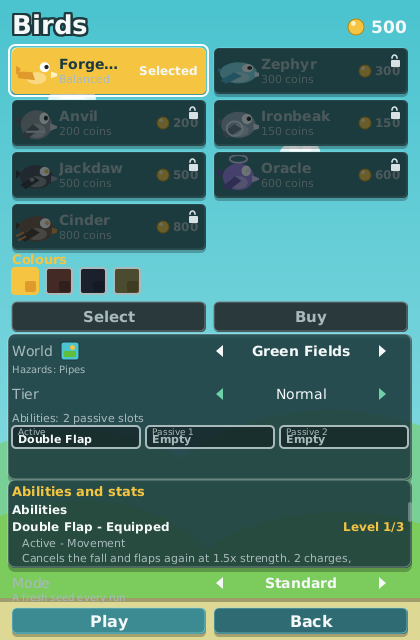
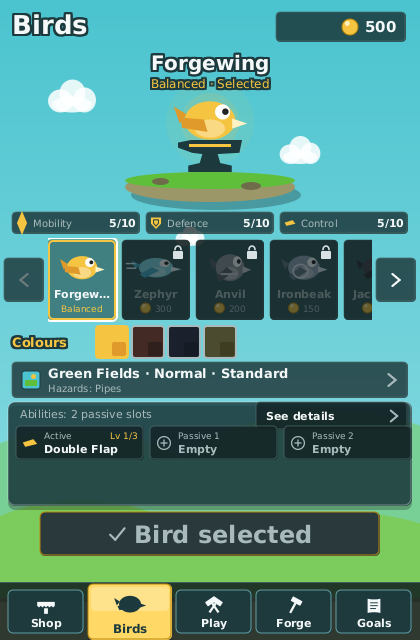
docs: describe the redesigned Birds screen
The wiki's Birds page is rewritten for the new layout in both languages,
with a fresh screenshot from the GUI smoke suite: the header, the hero and
what its three attributes mean, the carousel, the colours, the run-setup
bar and its panel, the ability cards and See details, and the call to
action over the hub's navigation. The hub, Worlds and Game Modes pages now
point at the run-setup panel instead of three loose rows, and say that the
Birds screen carries the hub's own bottom navigation.

README's mode and world prose follows, and the architecture and progression
docs gain the new components: HubHeader, SectionNav, Carousel, AbilityCard,
AttributeBadge and the six ui.screens classes the Birds screen is built
from, plus what the new tests pin.

Claude-Session: https://claude.ai/code/session_014GQtCo9wtHyDYuzDvTS9kj

diff --git a/wiki/Aves-e-Habilidades-(pt-BR).md b/wiki/Aves-e-Habilidades-(pt-BR).md
@@ -51,38 +51,59 @@ Gralha com Multiplicador de Pontos é uma combinação de economia com risco alt
 ## A tela Aves
 
 ![A tela Aves](images/birds.png)
-*A tela Aves: o elenco à esquerda, os chips do equipamento e o painel de habilidades à direita
+*A tela Aves: a ave em exibição sobre a bigorna, o elenco abaixo dela e a partida em uma linha
 (interface em inglês).*
 
-A tela se chama **Aves** e tem seis partes:
+A tela veste a roupa da tela inicial: o mesmo cabeçalho, o mesmo botão dourado e a mesma
+navegação de rodapé, com **Aves** na placa dourada. Ela tem sete partes, de cima para baixo:
 
-* **O elenco.** Sete cartões, cada um com um retrato procedural na paleta que você escolheu para
-  aquela ave e o arquétipo dela. Um cartão bloqueado traz um cadeado e diz, em palavras, o
-  caminho mais barato: quem está começando lê "Jogue 3 partidas" sob o Bico-de-ferro; quem tem
-  150 moedas na carteira lê "150 moedas". Ativar um cartão adquirido seleciona a ave e salva na
-  hora; **Comprar** paga por uma ave bloqueada e a desbloqueia ali mesmo.
-* **Cores.** Uma amostra por paleta da ave, com a condição embaixo de cada uma bloqueada. Toda ave
-  tem a paleta Padrão e uma paleta dourada **Prestígio** (concedida por um prestígio, veja
+* **O cabeçalho.** O título à esquerda e suas moedas à direita. O chip de moedas abre a
+  [[Loja e melhorias|Loja-e-Melhorias-(pt-BR)]], como na tela inicial.
+* **A ave.** A ave que você está vendo, grande, balançando sobre uma bigorna numa ilha
+  flutuante: o nome, uma linha dizendo o que ela é (`Guardiã · Selecionado`,
+  `Pesada · Bloqueado`) e três selos — **Mobilidade**, **Defesa** e **Controle**, cada um de
+  dez. Os três números descrevem a ave sozinha, lidos dos dados dela e das habilidades inatas:
+  são eles que separam o Zéfiro (7 de mobilidade) do Bico-de-ferro (10 de defesa), e não se
+  movem quando você compra uma melhoria. O que a partida realmente resolveria está no
+  detalhamento atrás de **Ver detalhes**.
+* **O elenco.** Um cartão por ave, numa faixa que você percorre com Esquerda/Direita, com as
+  setas nas pontas ou com a roda do mouse. O cartão traz o retrato na paleta que você escolheu
+  para aquela ave, o nome e o arquétipo; um cartão bloqueado fica escurecido sob um cadeado e
+  diz o caminho mais barato, em palavras ou em moedas. O cartão da ave selecionada usa a mesma
+  borda dourada do botão da tela inicial. Passar por um cartão mostra aquela ave acima; tocar um
+  cartão adquirido seleciona a ave e salva na hora, e tocar um bloqueado sacode o cadeado dele.
+* **Cores.** Uma amostra por paleta da ave, com as bloqueadas marcadas. Toda ave tem a paleta
+  Padrão e uma paleta dourada **Prestígio** (concedida por um prestígio, veja
   [[Modos de jogo e dificuldade|Modos-de-Jogo-e-Dificuldade-(pt-BR)]]); as outras estão na
   tabela abaixo. Trocar de ave corrige a paleta, porque cada paleta pertence a uma ave.
-* **As linhas Mundo, Dificuldade e Modo.** A linha Mundo lista os cinco mundos em ordem, com
-  "Perigos: …" para um mundo adquirido e "Bloqueado: …" com o caminho mais barato para um
-  bloqueado; a linha Dificuldade lista Normal, Difícil e Pesadelo com os níveis bloqueados
-  marcados; a linha Modo lista Padrão, Com semente e Diária. Passar para algo bloqueado faz a
-  linha voltar, com um aviso. Veja [[Mundos e chefes|Mundos-e-Chefes-(pt-BR)]] e
+* **A barra da partida.** Uma linha — `Campos Verdes · Normal · Padrão ›` — com as cores do
+  mundo ao lado e, embaixo, os perigos, a dica da semente ou a configuração da diária. Ativá-la
+  abre um painel com as linhas Mundo, Dificuldade e Modo e um botão **Concluir**; Esc também
+  fecha. A linha Mundo lista os cinco mundos em ordem, com "Perigos: …" para um mundo adquirido
+  e "Bloqueado: …" com o caminho mais barato para um bloqueado; a linha Dificuldade lista Normal,
+  Difícil e Pesadelo; a linha Modo lista Padrão, Com semente e Diária. Passar para algo
+  bloqueado faz a linha voltar, com um aviso. Com a **Diária** definida, as linhas Mundo e
+  Dificuldade ficam somente para leitura e dizem isso: a diária escolhe por você. Veja
+  [[Mundos e chefes|Mundos-e-Chefes-(pt-BR)]] e
   [[Modos de jogo e dificuldade|Modos-de-Jogo-e-Dificuldade-(pt-BR)]].
-* **A linha Equipamento.** Um chip por espaço: **Ativa**, **Passiva 1** a **Passiva N**, e um
-  chip fixo **Inata** para cada passiva que a ave concede por conta própria. Enter alterna o chip
-  entre as habilidades que aquele espaço aceita; um chip sem nada mostra **Vazio**.
-* **Habilidades e status.** O painel ao lado dos chips lista cada habilidade com tipo, etiquetas,
-  nível, preço do próximo nível e o que cada nível faz; as equipadas aparecem como **Equipada**,
-  e uma que as regras da partida removeriam fica acinzentada como "Removida por …".
-* **Detalhamento dos atributos.** A física resolvida da partida que começaria agora, uma linha
-  por contribuição (ave, nó de melhoria, sinergia, mundo, dificuldade). Comprar Peso Pena nas
-  árvores de melhorias acrescenta uma linha sob Gravidade aqui e baixa o valor de 1800 para 1746.
-
-**Jogar**, no rodapé, inicia a partida com tudo o que está na tela; **Voltar** retorna à tela
-inicial.
+* **Habilidades.** Um cartão por espaço — **Ativa**, **Passiva 1** a **Passiva N**, e um cartão
+  fixo **Inata** para cada passiva que a ave concede por conta própria — cada um com o ícone, o
+  nível e o nome da habilidade; um cartão sem nada mostra **Vazio**. Enter alterna o cartão
+  entre as habilidades que aquele espaço aceita. **Ver detalhes** abre o painel que lista cada
+  habilidade com tipo, etiquetas, nível, preço do próximo nível e o que cada nível faz (as
+  equipadas aparecem como **Equipada**, e uma que as regras da partida removeriam fica
+  acinzentada como "Removida por …"), seguido do detalhamento dos atributos: a física resolvida
+  da partida que começaria agora, uma linha por contribuição (ave, nó de melhoria, sinergia,
+  mundo, dificuldade). Comprar Peso Pena nas árvores de melhorias acrescenta uma linha sob
+  Gravidade ali e baixa o valor de 1800 para 1746. O painel rola com a roda, com as setas ou com
+  Page Up/Page Down.
+* **O botão e a navegação.** O botão dourado diz a única coisa a fazer com a ave acima dele:
+  **Usar \<ave\>** para uma ave adquirida, **Ave selecionada** quando ela já é a sua,
+  **Comprar · \<preço\>** quando você pode pagar, ou **Bloqueado · \<condição\>** quando não
+  pode. Abaixo dele, os cinco itens da tela inicial — Loja, Aves, Jogar, Forja, Metas — com
+  **Aves** na placa dourada: **Jogar** inicia a partida com tudo o que está na tela, e os outros
+  três trocam de seção. Não há botão Voltar: Esc ou o gesto de voltar retorna à tela inicial, e
+  fecha antes um painel aberto.
 
 | Ave | Paleta | Desbloqueada por |
 | --- | --- | --- |

diff --git a/wiki/Birds-and-Abilities.md b/wiki/Birds-and-Abilities.md
@@ -49,35 +49,55 @@ Jackdaw with Score Multiplier is a high-risk economy build.
 ## The Birds screen
 
 ![The Birds screen](images/birds.png)
-*The Birds screen: the roster on the left, the loadout chips and the ability panel on the right.*
+*The Birds screen: the browsed bird on the anvil, the roster below it, and the run in one line.*
 
-The screen is titled **Birds** and has six parts:
+The screen wears the home hub's clothes: the same header, the same gold call to action, the same
+bottom navigation with **Birds** on the gold plate. It has seven parts, top to bottom:
 
-* **The roster.** Seven cards, each with a procedural portrait in the palette you selected for
-  that bird and its archetype. A locked card carries a padlock and says the cheapest way in, in
-  words: a beginner reads "Play 3 runs" under Ironbeak, a player with 150 coins reads
-  "150 coins". Activating an owned card selects it and saves at once; **Buy** pays for a locked
-  one and unlocks it on the spot.
-* **Colours.** One swatch per palette the bird ships, with the condition under each locked one.
-  Every bird has a default palette and a golden **Prestige** palette (granted by a prestige, see
+* **The header.** The title on the left and your coins on the right. The coin chip opens the
+  [[Shop and Upgrades|Shop-and-Upgrades]], exactly as it does on the hub.
+* **The bird.** The bird you are browsing, large, bobbing on an anvil on a floating island: its
+  name, a line saying what it is (`Guardian · Selected`, `Heavy · Locked`), and three badges —
+  **Mobility**, **Defence** and **Control**, each out of ten. The three numbers describe the
+  bird alone, read from its own data and its innate abilities: they are what separates Zephyr
+  (7 mobility) from Ironbeak (10 defence), and they never move when you buy an upgrade. What the
+  run would actually resolve to is the stat breakdown behind **See details**.
+* **The roster.** One tile per bird, in a strip you walk with Left/Right, the arrows at its ends
+  or the mouse wheel. A tile carries the portrait in the palette you selected for that bird, its
+  name and its archetype; a locked tile is dimmed under a padlock and says the cheapest way in,
+  in words or in coins. The selected bird's tile carries the same gold border as the hub's call
+  to action. Walking onto a tile shows that bird above; tapping an owned tile selects it and
+  saves at once, and tapping a locked one nudges its padlock.
+* **Colours.** One swatch per palette the bird ships, with the locked ones marked. Every bird has
+  a default palette and a golden **Prestige** palette (granted by a prestige, see
   [[Game Modes and Difficulty]]); the others are listed below. Switching birds repairs the
   palette, because a palette belongs to one bird.
-* **The world row, the tier row and the mode row.** The world row lists the five worlds in order
-  with "Hazards: …" for an owned one and "Locked: …" with the cheapest way in for a locked one;
-  the tier row lists Normal, Hard and Nightmare with the locked tiers marked; the mode row lists
-  Standard, Seeded and Daily. Stepping onto something locked snaps the row back with a toast.
-  See [[Worlds and Bosses]] and [[Game Modes and Difficulty]].
-* **The loadout row.** One chip per slot: **Active**, **Passive 1** to **Passive N**, and a
-  fixed **Innate** chip for each passive the bird grants by itself. Enter cycles a chip through
-  the abilities that slot may hold; an empty chip reads **Empty**.
-* **Abilities and stats.** The panel beside the chips lists every ability with its kind, tags,
-  level, the price of the next level and what each level does; the equipped ones are marked
-  **Equipped**, and one the run's rules would remove is greyed out as "Stripped by …".
-* **Stat breakdown.** The resolved physics of the run that would start right now, one row per
+* **The run setup bar.** One line — `Green Fields · Normal · Standard ›` — with the world's
+  colours beside it and the hazards, the seed hint or the daily's setup underneath. Activating it
+  opens a panel with the world row, the tier row and the mode row and a **Done** button; Esc
+  closes it too. The world row lists the five worlds in order with "Hazards: …" for an owned one
+  and "Locked: …" with the cheapest way in for a locked one; the tier row lists Normal, Hard and
+  Nightmare; the mode row lists Standard, Seeded and Daily. Stepping onto something locked snaps
+  the row back with a toast. Under a settled **Daily** the world and tier rows are read-only and
+  say so: the daily picks them, not you. See [[Worlds and Bosses]] and
+  [[Game Modes and Difficulty]].
+* **Abilities.** One card per slot — **Active**, **Passive 1** to **Passive N**, and a fixed
+  **Innate** card for each passive the bird grants by itself — each with its icon, its level and
+  the ability's name; an empty card reads **Empty**. Enter cycles a card through the abilities
+  that slot may hold. **See details** opens the panel that lists every ability with its kind,
+  tags, level, the price of the next level and what each level does (the equipped ones marked
+  **Equipped**, one the run's rules would remove greyed out as "Stripped by …"), followed by the
+  stat breakdown: the resolved physics of the run that would start right now, one row per
   contribution (bird, upgrade node, synergy, world, tier). Buying Feather Weight in the upgrade
-  trees adds a line under Gravity here and drops it from 1800 to 1746.
-
-**Play** at the bottom starts the run with everything shown; **Back** returns to the hub.
+  trees adds a line under Gravity there and drops it from 1800 to 1746. The panel scrolls with
+  the wheel, the arrows or Page Up/Page Down.
+* **The call to action and the navigation.** The gold button says the one thing to do with the
+  bird above it: **Use \<bird\>** for an owned bird, **Bird selected** when it is already yours
+  to fly, **Buy · \<price\>** when you can afford it, or **Locked · \<condition\>** when you
+  cannot. Below it the hub's five items — Shop, Birds, Play, Forge, Goals — with **Birds** on the
+  gold plate: **Play** starts the run with everything shown, the other three change section.
+  There is no Back button: Esc or the back gesture returns to the hub, and closes an open panel
+  first.
 
 | Bird | Palette | Unlocked by |
 | --- | --- | --- |

diff --git a/docs/PROGRESSION.md b/docs/PROGRESSION.md
@@ -354,7 +354,7 @@ uses cannot drift apart.
 
 | Screen | What it shows | What it writes |
 | --- | --- | --- |
-| `BirdSelectionScreen` | the seven birds as a `CardGrid` with a procedural portrait in the selected palette, the archetype, and — for a locked one — the **cheapest** way to open it in words; the palette swatches with their conditions; the tier picker with the locked tiers marked (E19); the run-mode row (§8) — Standard, Seeded and, when the screen has a clock, Daily, each saying what it would play; the loadout row — one active chip, one chip per passive slot the bird and the `passive_slot` grant give, and a fixed chip per innate passive — with the ability panel beside it (level, next level's price, and what each level does); and the stat breakdown of the run that would start right now | `SelectionManager` (bird, palette, tier, loadout), `UnlockManager` (Buy), `UpgradeManager.buyAbilityLevel`, and the mode row's write of the daily pick (E27) |
+| `BirdSelectionScreen` | the browsed bird as the hero — name, archetype line, three `AttributeBadge`s built by `BirdAttributes.of` from the bird's own profile and innate abilities — over a `Carousel` of the seven birds, each with a procedural portrait in the selected palette, the archetype, and, for a locked one, the **cheapest** way to open it in words or coins; the palette swatches with their conditions; a run-setup bar whose panel holds the world row, the tier picker with the locked tiers marked (E19) and the run-mode row (§8) — Standard, Seeded and, when the screen has a clock, Daily, each saying what it would play, with the world and tier read-only under a settled daily; the loadout as `AbilityCard`s — one active, one per passive slot the bird and the `passive_slot` grant give, and a fixed card per innate passive — with the ability panel and the stat breakdown of the run that would start right now behind **See details**; and one gold call to action (Use / Bird selected / Buy / Locked) over the hub's five-item `SectionNav` | `SelectionManager` (bird, palette, tier, loadout), `UnlockManager` (Buy), `UpgradeManager.buyAbilityLevel`, and the mode row's write of the daily pick (E27) |
 | `UpgradeTreeScreen` | one tab per tree, nodes laid out by tier with a line from every prerequisite, each card carrying level/maximum, what one level does in words, the price of the next level and its state (tree locked / prerequisite missing / affordable / maxed / already unlocked); a locked tree shows its condition instead | `UpgradeManager.buy` |
 | `ShopScreen` | everything with a `purchase` branch the profile does not own, grouped into four tabs (birds, abilities, worlds, features), cheapest first, each with its price and whether the wallet covers it; an offer that is not playable yet says which milestone it arrives in | `UnlockManager.purchase` |
 | `WorldSelectScreen` (M10) | one card per world in content order, the palette as its art, the hazards (owned) or the **cheapest** way in (locked) as its subtitle and the price as its badge while locked; the difficulty row under the cards; a description line for the focused world. Opened from the hub's world plaque | `SelectionManager.selectWorld` on an owned card (then pops), `selectTier` from the row; a locked card is refused with a toast — worlds are bought in the shop's Worlds tab |
@@ -470,8 +470,8 @@ opens keeps its own title, "Upgrades".
   ignores the seed the game-over screen asks for — so one day is one configuration, played as
   often as the player likes.
 
-The mode row of `BirdSelectionScreen` (§6) carries the UI: Standard and Seeded are always
-listed; Daily is listed when the screen has a clock and marked with its unlock condition while
+The mode row of `BirdSelectionScreen`'s run-setup panel (§6) carries the UI: Standard and
+Seeded are always listed; Daily is listed when the screen has a clock and marked with its unlock condition while
 `feature:seeded_runs` is locked; the row's detail line names the world, tier and cards of the
 run Play would start — and *that* is the read that settles the day.
 
@@ -497,7 +497,7 @@ shield run 5, `feature:modifiers` run 7) all hold.
 | `NewPlayerJourneyTest` (`@Tag("sim")`) | the novice bot on the real economy: `feather_1` bought after run 1, Ironbeak by run 3, the shield by run 5 and `feature:modifiers` by run 7 (E17), with the run-by-run table in the failure message. It pins *which* node and *which* run, so doubling a price fails it |
 | `SaveManagerTest` | E21's load order end to end (a renamed bird survives normalisation), an owned node the content dropped, and `abilityLevelCap` clamped from above |
 | `SmokeWindowTest` (`@Tag("gui")`) | a launch grants the unlocks a saved profile has already earned, and persists them |
-| `BirdSelectionScreenTest` | the roster, the cheapest path in words, selection writing and saving, a purchase that moves the wallet and one that cannot, the breakdown against `StatSheet.breakdown`, and the M5 loadout row: the chips a bird's slots and the `passive_slot` grant give, cycling one, and that cycling never drops a passive the bird cannot show |
+| `BirdSelectionScreenTest` | the roster, the cheapest path in words, selection writing and saving, a purchase that moves the wallet and one that cannot, the breakdown against `StatSheet.breakdown`, the M5 loadout row (the cards a bird's slots and the `passive_slot` grant give, cycling one, and that cycling never drops a passive the bird cannot show), and the M11 shell: what the call to action says in each of its four states, the two panels opening and closing, the hero following the browsed tile, a locked tile nudging instead of selecting, and every control on the ring in visual order |
 | `SelectionManagerTest` | every selection refusal, including a locked ability, a passive in the active slot and a passive list that mixes locked, non-passive and duplicate ids |
 | `UpgradeTreeScreenTest` | the tabs, a locked tree's condition, the tier layout and prerequisites, a bought level moving wallet, card and live stats, every refusal, and a node whose grant is already owned |
 | `ShopScreenTest` | the four tabs, cheapest first, affordability, a purchase leaving the list, the three modifier legendaries at 300 coins each, and the milestone note on what is not playable yet |

diff --git a/docs/ARCHITECTURE.md b/docs/ARCHITECTURE.md
@@ -581,8 +581,9 @@ records the attempts and the best gate count under `RunMode.DAILY` (the reward c
 applies `economy.daily.rewardMult`, ×1.25, for the mode).
 
 **Run modes (D28).** `RunMode` is `STANDARD / SEEDED / DAILY / CHALLENGE`; `RunConfig` carries
-the mode and `RunRewardCalculator` reads it. The bird selection screen's mode row lists
-Standard and Seeded always and Daily when it has a clock, marks the two gated ones with their
+the mode and `RunRewardCalculator` reads it. The mode row in the bird selection screen's
+run-setup panel lists Standard and Seeded always and Daily when it has a clock, marks the two
+gated ones with their
 `feature:seeded_runs` condition, and falls back to a standard run when Play is pressed on a
 locked mode. Seeded replays `profile.lastSeed`; a challenge keeps its own screen and source
 (M8).
@@ -634,6 +635,22 @@ demo never arms it. The old Quit lives in Settings › About as a row shown only
 the former `ChallengesScreen` as its first tab and rebuilds its ring per tab (the list and Play
 exist only on Challenges); `StatisticsScreen` is the Profile, with a fixed header (portrait,
 level bar, prestige, collections) above the scrolled groups.
+
+**Section screens (M11).** The hub's language is factored into `ui.component`: `HubHeader` (the
+title plus a `CurrencyChip` that is focusable only when it has a route) and
+`SectionNav.build(nav, primaryId, routes)`, which fills a `NavBar` with the same five items and
+marks one as primary — Play on the hub, the section itself on a section screen, so the gold
+plate reads "you are here". `BirdSelectionScreen` is the first screen built that way: a
+`BirdHero` (name, archetype line, the bird bobbing on an anvil on an island, and three
+`AttributeBadge`s fed by `BirdAttributes.of`, which resolves a `StatSheet` from the bird's own
+`BirdProfile` and its innate abilities and scores mobility, defence and control out of ten), a
+`Carousel` of `Tile`s (`CardGrid.Card` subclasses clipped to a scrolling viewport, walked with
+Left/Right, the end arrows or the wheel), a `RunSetupBar` opening a `RunSetupPanel` over the
+world, tier and mode rows, `AbilityCard`s for the loadout with the breakdown behind a
+`DetailsPanel`, one `CtaButton` and the `SectionNav`. Reduce flashing caps the glows and leaves
+the bob, the wing beat, the hero's slide and the carousel's tween alone: they are motion, not
+luminance, exactly as on the hub. Nothing interactive leaves the 420×640 playfield, and the
+navigation routes use `ScreenManager.replace`, so the stack stays two deep.
 
 **MetaSim (E25).** `gameplay.harness.MetaSim` is the career-scale harness: a fresh profile plays
 run after run through the real progression stack under one of two purchase policies
@@ -703,10 +720,11 @@ Flapforge/
     │   │               AssetManager AssetResolver Sprite SpriteSheet Animation Camera ParticleSystem [M2]  PickupRenderer [M3]  ObstacleRendererRegistry [M7]
     │   ├── audio/      AudioBackend SoftwareMixer NullAudio Voice SoundBank ToneSynth AudioManager [M2]  MusicSequencer [M8]
     │   └── ui/         Screen ScreenManager UiNode FocusRing [M0]
-    │       ├── component/  Button Label Panel [M0]  Slider Toggle ListView Toast [M2]  ProgressBar CurrencyDisplay [M3]  Tooltip CardGrid TabBar [M4]  IconPainter IconButton NavButton NavBar CtaButton CurrencyChip [M10]
+    │       ├── component/  Button Label Panel [M0]  Slider Toggle ListView Toast [M2]  ProgressBar CurrencyDisplay [M3]  Tooltip CardGrid TabBar [M4]  IconPainter IconButton NavButton NavBar CtaButton CurrencyChip [M10]  HubHeader SectionNav Carousel AbilityCard AttributeBadge [M11]
     │       └── screens/    MainMenuScreen (minimal) SettingsScreen (stub) [M0]  GameScreen PauseOverlay GameOverOverlay SeededRunSource ClassicRunFactory ContentRunFactory SeedSequence [M1]  BootScreen [M2; MainMenu/Settings completed]
     │                       RunSummaryScreen StatisticsScreen [M3]  BirdSelectionScreen UpgradeTreeScreen ShopScreen [M4]  ModifierChoiceOverlay [M6]
     │                       RuleShiftBanner [M7]  BossBanner [M8]  GoalsScreen (Challenges+Achievements merged) WorldSelectScreen PlayerCard WorldPlaque NextUnlockCard ForgeScene BirdPortrait [M10; MainMenuScreen = home hub, StatisticsScreen = Profile]
+    │                       BirdHero BirdAttributes AbilityIcons RunSetupBar RunSetupPanel DetailsPanel [M11; BirdSelectionScreen in the hub's language]
     ├── main/resources/
     │   ├── assets/manifest.json [M2, empty asset list]  assets/sprites/{birds,obstacles,worlds,ui}/.gitkeep assets/audio/{sfx,music}/.gitkeep [M2]  assets/fonts/{<ofl-font>.ttf,LICENSE} [M8]
     │   ├── data/birds.json difficulty.json [M1]  economy.json [M3]  upgrades.json aliases.json [M4]  abilities.json [M5]  modifiers.json [M6]  worlds.json patterns.json [M7]  challenges.json achievements.json [M8]

diff --git a/README.md b/README.md
@@ -8,7 +8,7 @@
 [![Gradle](https://img.shields.io/badge/Gradle-9.7-02303A?logo=gradle&logoColor=white)](https://gradle.org/)
 ![Genre](https://img.shields.io/badge/Genre-Arcade%20Roguelite-blueviolet)
 ![Meta Progression](https://img.shields.io/badge/Progression-Persistent-success)
-![Release](https://img.shields.io/badge/Release-v0.2.0-blue)
+![Release](https://img.shields.io/badge/Release-v0.2.1-blue)
 [![License](https://img.shields.io/badge/License-MIT-green.svg)](LICENSE)
 
 **Flapforge** reimagines the classic Flappy Bird formula as a **Skill-Based Arcade Roguelite with Persistent Meta-Progression**.
@@ -588,8 +588,9 @@ and
 
 ## Game Modes
 
-The bird selection screen has a run-mode row beside the world and tier rows.
-Four modes exist; Challenges live on the first tab of the Goals screen.
+The bird selection screen has a run-mode row under the world and tier rows,
+in the panel its `World · Tier · Mode ›` bar opens. Four modes exist;
+Challenges live on the first tab of the Goals screen.
 
 ### Standard
 
@@ -692,9 +693,9 @@ honours the text scale and colour-blind settings. `Esc` on the hub asks
 "Press again to quit"; a second press closes the game (Settings › About has
 a Quit row too).
 
-The world is picked on the hub's plaque, in the bird selection screen (the
-world row lists the five worlds, what each spawns and, for a locked one, the
-cheapest way in) or for one launch with `--world <id>` — see
+The world is picked on the hub's plaque, in the bird selection screen (its
+run-setup panel lists the five worlds, what each spawns and, for a locked
+one, the cheapest way in) or for one launch with `--world <id>` — see
 [Running the Game](#running-the-game).
 
 Input is sampled per simulation tick (60 Hz), so a tap shorter than a frame
@@ -757,9 +758,9 @@ if you want to send a change.
 
 ```bash
 ./gradlew fatJar
-java -jar build/libs/flapforge-0.2.0-all.jar
-java -jar build/libs/flapforge-0.2.0-all.jar --fullscreen --no-audio
-java -jar build/libs/flapforge-0.2.0-all.jar --lang pt_BR
+java -jar build/libs/flapforge-0.2.1-all.jar
+java -jar build/libs/flapforge-0.2.1-all.jar --fullscreen --no-audio
+java -jar build/libs/flapforge-0.2.1-all.jar --lang pt_BR
 ```
 
 The jar bundles Gson and needs only a JRE/JDK 17+.
@@ -939,7 +940,8 @@ It is:
 
 ## Roadmap
 
-Version 0.1.0 shipped the complete first pass of the design, and 0.2.0 adds the home hub, the Goals screen, the Profile, the World Select and the player wiki: the classic core,
+Version 0.1.0 shipped the complete first pass of the design, 0.2.0 added the home hub, the Goals screen, the Profile, the World Select and the player wiki, and 0.2.1 rebuilds the bird
+selection in the hub's visual language: the classic core,
 the meta-progression (coins, XP, seven birds, eight abilities, three upgrade
 trees, shops), the roguelite layer (modifier drafts, synergies), five worlds
 with bosses, seven challenges, 41 achievements, difficulty tiers, the daily

diff --git a/wiki/Game-Modes-and-Difficulty.md b/wiki/Game-Modes-and-Difficulty.md
@@ -9,7 +9,8 @@ demo that plays when you leave the hub alone, is at the end.
 
 ## Where the mode is chosen
 
-The mode row sits on the Birds screen, beside the world row and the tier row
+The mode row sits in the run-setup panel of the Birds screen, under the world row and the tier
+row: the bar reads `World · Tier · Mode ›` and activating it opens the three rows
 ([[Birds and Abilities]]). Standard and Seeded are always listed; Daily is listed when the game
 has a clock, and while `feature:seeded_runs` is still locked both Seeded and Daily say so with
 their unlock condition. The line under the mode names what Play would start: "A fresh seed
@@ -69,8 +70,9 @@ The full list, with objectives and rewards, is on [[Challenges and Goals]].
 ## Difficulty tiers
 
 A tier stacks on top of every mode, except where a challenge fixes its own. It is chosen on the
-tier row of the Birds screen or on the Difficulty row of the World Select screen (the screenshot
-is on [[Worlds and Bosses]]); on desktop `--tier <id>` picks it for one launch.
+tier row of the Birds screen's run-setup panel or on the Difficulty row of the World Select
+screen (the screenshot is on [[Worlds and Bosses]]); on desktop `--tier <id>` picks it for one
+launch.
 
 | `id` | Name | Effects | Flags | Reward multiplier | Unlocked by |
 | --- | --- | --- | --- | --- | --- |

diff --git a/wiki/Modos-de-Jogo-e-Dificuldade-(pt-BR).md b/wiki/Modos-de-Jogo-e-Dificuldade-(pt-BR).md
@@ -9,7 +9,8 @@ prestígio. O modo de demonstração, que toca quando você deixa a tela inicial
 
 ## Onde o modo é escolhido
 
-A linha Modo fica na tela Aves, ao lado das linhas Mundo e Dificuldade
+A linha Modo fica no painel da partida da tela Aves, embaixo das linhas Mundo e Dificuldade: a
+barra mostra `Mundo · Dificuldade · Modo ›` e ativá-la abre as três linhas
 ([[Aves e habilidades|Aves-e-Habilidades-(pt-BR)]]). Padrão e Com semente estão sempre na lista;
 Diária aparece quando o jogo tem um relógio, e enquanto `feature:seeded_runs` ainda está
 bloqueado tanto Com semente quanto Diária avisam, com a condição de desbloqueio. A linha sob o
@@ -74,7 +75,8 @@ desbloqueio: três paletas de aves, a habilidade Invulnerabilidade (Uma Vida I) 
 ## Níveis de dificuldade
 
 Um nível se empilha sobre qualquer modo, exceto onde um desafio fixa o seu. Ele é escolhido na
-linha Dificuldade da tela Aves ou na linha Dificuldade da tela Escolha um mundo (a captura está
+linha Dificuldade do painel da partida da tela Aves ou na linha Dificuldade da tela Escolha um
+mundo (a captura está
 em [[Mundos e chefes|Mundos-e-Chefes-(pt-BR)]]); no desktop, `--tier <id>` escolhe o nível para
 uma execução.
 

diff --git a/wiki/Tela-Inicial-(pt-BR).md b/wiki/Tela-Inicial-(pt-BR).md
@@ -56,9 +56,11 @@ acompanham (interface em inglês).*
   ave Brasa (Cinder).
 - **Metas** reúne os sete desafios, as 41 conquistas, os marcos e as coleções em quatro abas —
   veja [[Desafios e metas|Desafios-e-Metas-(pt-BR)]].
-- **Aves** é onde você escolhe a ave, as cores, a linha do mundo, o nível de dificuldade, o modo
-  de partida e o equipamento — veja [[Aves e habilidades|Aves-e-Habilidades-(pt-BR)]] e
-  [[Modos de jogo e dificuldade|Modos-de-Jogo-e-Dificuldade-(pt-BR)]].
+- **Aves** é onde você escolhe a ave, as cores e o equipamento, e onde o mundo, o nível de
+  dificuldade e o modo da partida são definidos atrás de uma barra de uma linha — veja
+  [[Aves e habilidades|Aves-e-Habilidades-(pt-BR)]] e
+  [[Modos de jogo e dificuldade|Modos-de-Jogo-e-Dificuldade-(pt-BR)]]. Ela traz esta mesma barra
+  inferior, com Aves na placa dourada.
 - O **Perfil** atrás do cartão do jogador é onde fica o prestígio em duas etapas.
 
 ## Teclado, mouse e toque

diff --git a/wiki/Home-Hub.md b/wiki/Home-Hub.md
@@ -54,8 +54,10 @@ almost black.
   world, nor Cinder the forge bird.
 - **Goals** gathers the seven challenges, the 41 achievements, the milestones and the
   collections in four tabs — see [[Challenges and Goals]].
-- **Birds** is where you pick the bird, its colours, the world row, the difficulty tier, the
-  run mode and the loadout — see [[Birds and Abilities]] and [[Game Modes and Difficulty]].
+- **Birds** is where you pick the bird, its colours and its loadout, and where the run's world,
+  difficulty tier and mode are set behind a one-line setup bar — see [[Birds and Abilities]] and
+  [[Game Modes and Difficulty]]. It carries this same bottom navigation, with Birds on the gold
+  plate.
 - The **Profile** behind the player card is where the two-step prestige lives.
 
 ## Keyboard, mouse and touch

diff --git a/wiki/Mundos-e-Chefes-(pt-BR).md b/wiki/Mundos-e-Chefes-(pt-BR).md
@@ -147,8 +147,8 @@ A placa da tela inicial ("Mundo 1 · Campos Verdes") abre a tela **Escolha um mu
   bloqueados marcados; passar para um nível bloqueado faz a linha voltar, com o mesmo aviso.
 * Uma linha de descrição sob a linha Dificuldade descreve o mundo em foco.
 
-A linha Mundo da tela Aves faz o mesmo trabalho do outro lado da tela inicial
-([[Aves e habilidades|Aves-e-Habilidades-(pt-BR)]]).
+A tela Aves define o mesmo mundo do outro lado da tela inicial, no painel atrás da barra da
+partida ([[Aves e habilidades|Aves-e-Habilidades-(pt-BR)]]).
 
 ## Escolhendo um mundo pela linha de comando
 

diff --git a/wiki/Worlds-and-Bosses.md b/wiki/Worlds-and-Bosses.md
@@ -140,8 +140,8 @@ The plaque on the home hub ("World 1 · Green Fields") opens the screen titled *
   locked tiers marked; stepping onto a locked tier snaps the row back with the same toast.
 * A description line under the row describes the focused world.
 
-The world row of the Birds screen does the same job from the other side of the hub
-([[Birds and Abilities]]).
+The Birds screen sets the same world from the other side of the hub, in the panel behind its
+run-setup bar ([[Birds and Abilities]]).
 
 ## Picking a world from the command line
 
